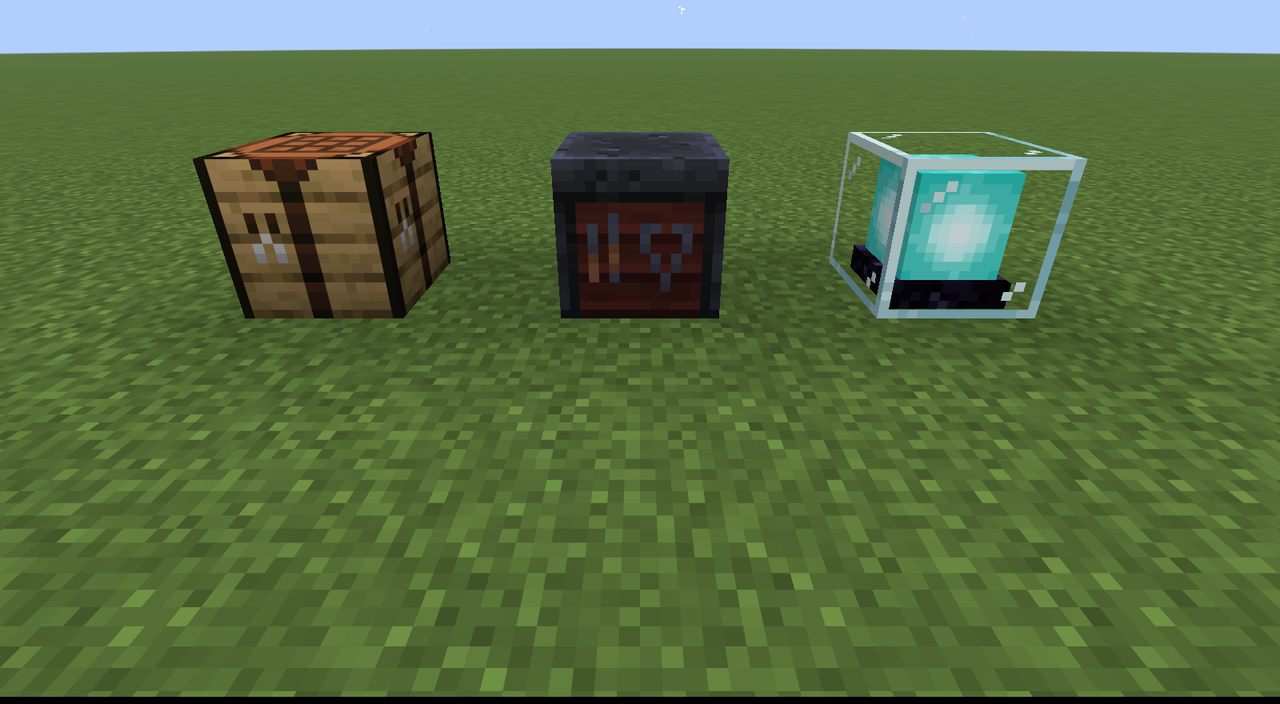
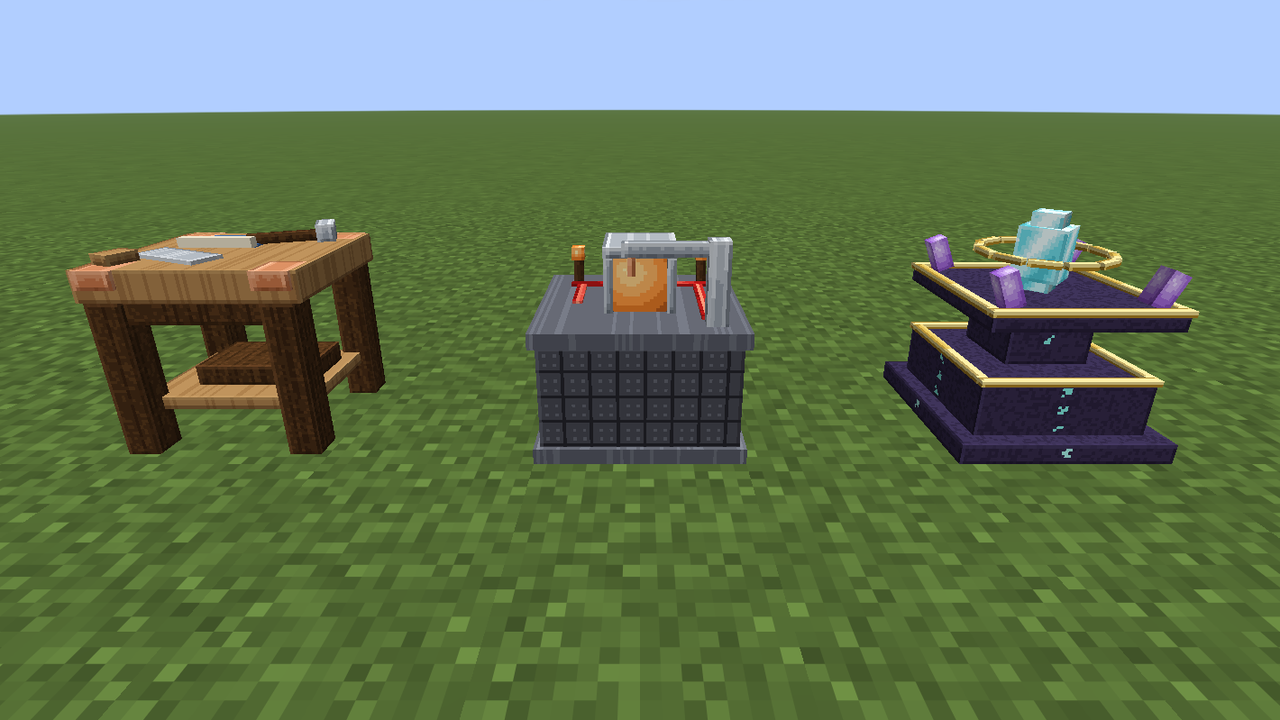
Structures 1.0.1: modelos propios de las tres mesas, con capturas en el juego

diff --git a/src/pages/copy/structures.ts b/src/pages/copy/structures.ts
@@ -14,7 +14,7 @@ const es = {
 
   reqTitle: "Requisitos",
   reqBody:
-    "Paper 26.1.1 y {lib}. Los demás son opcionales ({soft}). Hoy solo se usan dos: Vault, para cobrar dinero al mejorar la mesa, y SackResourcePack, para un modelo propio de la mesa (opcional) y los fondos dibujados de los menús. WorldEdit, FastAsyncWorldEdit, WorldGuard, GriefPrevention y floodgate están declarados para las funciones que vienen y ahora no cambian nada.",
+    "Paper 26.1.1 y {lib}. Los demás son opcionales ({soft}). Hoy solo se usan dos: Vault, para cobrar dinero al mejorar la mesa, y SackResourcePack, para los modelos de las mesas y los fondos dibujados de los menús. WorldEdit, FastAsyncWorldEdit, WorldGuard, GriefPrevention y floodgate están declarados para las funciones que vienen y ahora no cambian nada.",
 
   tiersTitle: "Los tres niveles",
   tiersLead:
@@ -110,6 +110,15 @@ const es = {
   modelTitle: "Aspecto: bloque o modelo",
   modelBody:
     "Sin modelo, cada nivel se ve como un bloque de vanilla ({fallback}); si el material que pongas no es un bloque, se usa una mesa de crafteo. Con {model} en un nivel y SackResourcePack instalado, la mesa es una barrera con el modelo encima.",
+  modelDefault: "El plugin trae un modelo por nivel y viene activado: con SackResourcePack instalado no hay que hacer nada. Constructor es un banco de carpintero con sus herramientas y un plano; Ingeniero, un banco de pizarra con circuito de redstone, lámpara y una grúa pequeña; Arquitecto, un pedestal de runas con un cristal y su halo dorado. El ítem de la mesa usa el mismo modelo.",
+  shotModelC: "Constructor: banco de carpintero.",
+  shotModelI: "Ingeniero: pizarra y redstone.",
+  shotModelA: "Arquitecto: runas y cristal.",
+  shotModelItem: "Las tres mesas como ítem, en la barra y en la mano.",
+  altModelC: "Modelo de la mesa Constructor colocado en el mundo",
+  altModelI: "Modelo de la mesa Ingeniero colocado en el mundo",
+  altModelA: "Modelo de la mesa Arquitecto colocado en el mundo",
+  altModelItem: "Barra de inventario con las tres mesas y la mesa Constructor en la mano",
 
   commandsTitle: "Comandos",
   thCommand: "Comando",
@@ -146,7 +155,7 @@ const es = {
   kSize: "Tamaño máximo de obra de cada nivel: ancho, alto y largo (en workbench.yml).",
   kCost: "Materiales para mejorar a ese nivel: una lista de ítem y cantidad (en workbench.yml).",
   kMoney: "Dinero que se cobra además de los materiales. Necesita Vault con una economía; sin ella no se cobra y avisa.",
-  kModel: "Modelo del nivel. Vacío = el bloque de fallback-block.",
+  kModel: "Modelo del nivel. De fábrica, el de la mesa (rpgroll_structures:workbench/<nivel>). Vacío = el bloque de fallback-block.",
   kFallback: "Bloque con el que se ve el nivel sin modelo.",
   configNote: "Los cambios de {file} se aplican con {reload}.",
 
@@ -175,7 +184,7 @@ const en: StructuresCopy = {
 
   reqTitle: "Requirements",
   reqBody:
-    "Paper 26.1.1 and {lib}. Everything else is optional ({soft}). Only two are used today: Vault, to charge money when upgrading the table, and SackResourcePack, for an optional custom table model and the drawn menu backgrounds. WorldEdit, FastAsyncWorldEdit, WorldGuard, GriefPrevention and floodgate are declared for the features to come and change nothing now.",
+    "Paper 26.1.1 and {lib}. Everything else is optional ({soft}). Only two are used today: Vault, to charge money when upgrading the table, and SackResourcePack, for the table models and the drawn menu backgrounds. WorldEdit, FastAsyncWorldEdit, WorldGuard, GriefPrevention and floodgate are declared for the features to come and change nothing now.",
 
   tiersTitle: "The three levels",
   tiersLead:
@@ -271,6 +280,15 @@ const en: StructuresCopy = {
   modelTitle: "Look: block or model",
   modelBody:
     "Without a model, each level looks like a vanilla block ({fallback}); if the material you set is not a block, a crafting table is used. With {model} on a level and SackResourcePack installed, the table is a barrier with the model on top.",
+  modelDefault: "The plugin ships one model per level, enabled by default: with SackResourcePack installed there is nothing to do. Builder is a carpenter's bench with its tools and a blueprint; Engineer, a deepslate bench with a redstone circuit, a lamp and a small crane; Architect, a rune pedestal with a crystal and its golden halo. The table item uses the same model.",
+  shotModelC: "Builder: carpenter's bench.",
+  shotModelI: "Engineer: deepslate and redstone.",
+  shotModelA: "Architect: runes and crystal.",
+  shotModelItem: "The three tables as items, in the hotbar and in hand.",
+  altModelC: "Builder table model placed in the world",
+  altModelI: "Engineer table model placed in the world",
+  altModelA: "Architect table model placed in the world",
+  altModelItem: "Hotbar with the three tables and the Builder table in hand",
 
   commandsTitle: "Commands",
   thCommand: "Command",
@@ -307,7 +325,7 @@ const en: StructuresCopy = {
   kSize: "Maximum build size of each level: width, height and length (in workbench.yml).",
   kCost: "Materials to upgrade to that level: a list of item and amount (in workbench.yml).",
   kMoney: "Money charged on top of the materials. Needs Vault with an economy; without one nothing is charged and it warns.",
-  kModel: "The level's model. Empty = the fallback-block block.",
+  kModel: "The level's model. By default, the table's own (rpgroll_structures:workbench/<level>). Empty = the fallback-block block.",
   kFallback: "Block the level looks like without a model.",
   configNote: "Changes to {file} are applied with {reload}.",
 
@@ -334,7 +352,7 @@ const pt: StructuresCopy = {
 
   reqTitle: "Requisitos",
   reqBody:
-    "Paper 26.1.1 e {lib}. Os demais são opcionais ({soft}). Hoje só dois são usados: Vault, para cobrar dinheiro ao melhorar a mesa, e SackResourcePack, para um modelo próprio da mesa (opcional) e os fundos desenhados dos menus. WorldEdit, FastAsyncWorldEdit, WorldGuard, GriefPrevention e floodgate estão declarados para as funções que vêm e agora não mudam nada.",
+    "Paper 26.1.1 e {lib}. Os demais são opcionais ({soft}). Hoje só dois são usados: Vault, para cobrar dinheiro ao melhorar a mesa, e SackResourcePack, para os modelos das mesas e os fundos desenhados dos menus. WorldEdit, FastAsyncWorldEdit, WorldGuard, GriefPrevention e floodgate estão declarados para as funções que vêm e agora não mudam nada.",
 
   tiersTitle: "Os três níveis",
   tiersLead:
@@ -430,6 +448,15 @@ const pt: StructuresCopy = {
   modelTitle: "Aparência: bloco ou modelo",
   modelBody:
     "Sem modelo, cada nível aparece como um bloco vanilla ({fallback}); se o material definido não for um bloco, usa-se uma bancada de trabalho. Com {model} num nível e o SackResourcePack instalado, a mesa é uma barreira com o modelo por cima.",
+  modelDefault: "O plugin traz um modelo por nível, ativado de fábrica: com o SackResourcePack instalado não é preciso fazer nada. Construtor é uma bancada de carpinteiro com ferramentas e uma planta; Engenheiro, uma bancada de ardósia com circuito de redstone, lâmpada e um pequeno guindaste; Arquiteto, um pedestal de runas com um cristal e seu halo dourado. O item da mesa usa o mesmo modelo.",
+  shotModelC: "Construtor: bancada de carpinteiro.",
+  shotModelI: "Engenheiro: ardósia e redstone.",
+  shotModelA: "Arquiteto: runas e cristal.",
+  shotModelItem: "As três mesas como item, na barra e na mão.",
+  altModelC: "Modelo da mesa Construtor colocado no mundo",
+  altModelI: "Modelo da mesa Engenheiro colocado no mundo",
+  altModelA: "Modelo da mesa Arquiteto colocado no mundo",
+  altModelItem: "Barra com as três mesas e a mesa Construtor na mão",
 
   commandsTitle: "Comandos",
   thCommand: "Comando",
@@ -466,7 +493,7 @@ const pt: StructuresCopy = {
   kSize: "Tamanho máximo de obra de cada nível: largura, altura e comprimento (em workbench.yml).",
   kCost: "Materiais para melhorar a esse nível: uma lista de item e quantidade (em workbench.yml).",
   kMoney: "Dinheiro cobrado além dos materiais. Precisa do Vault com uma economia; sem ela não se cobra e avisa.",
-  kModel: "Modelo do nível. Vazio = o bloco de fallback-block.",
+  kModel: "Modelo do nível. De fábrica, o da mesa (rpgroll_structures:workbench/<nível>). Vazio = o bloco de fallback-block.",
   kFallback: "Bloco com que o nível aparece sem modelo.",
   configNote: "As mudanças em {file} se aplicam com {reload}.",
 

diff --git a/src/pages/Structures.tsx b/src/pages/Structures.tsx
@@ -234,6 +234,13 @@ export function Structures({ onNavigate }: { onNavigate: (slug: string) => void 
           model: <code>model</code>,
         })}
       </p>
+      <p>{c.modelDefault}</p>
+      <div className="grid max-w-3xl gap-x-4 sm:grid-cols-3">
+        <Screenshot src="/capturas/structures/modelo-constructor.png" alt={c.altModelC} caption={c.shotModelC} />
+        <Screenshot src="/capturas/structures/modelo-ingeniero.png" alt={c.altModelI} caption={c.shotModelI} />
+        <Screenshot src="/capturas/structures/modelo-arquitecto.png" alt={c.altModelA} caption={c.shotModelA} />
+      </div>
+      <Screenshot src="/capturas/structures/modelo-item.png" alt={c.altModelItem} caption={c.shotModelItem} />
 
       <SectionHeading id="almacenamiento">{c.storageTitle}</SectionHeading>
       <p>
